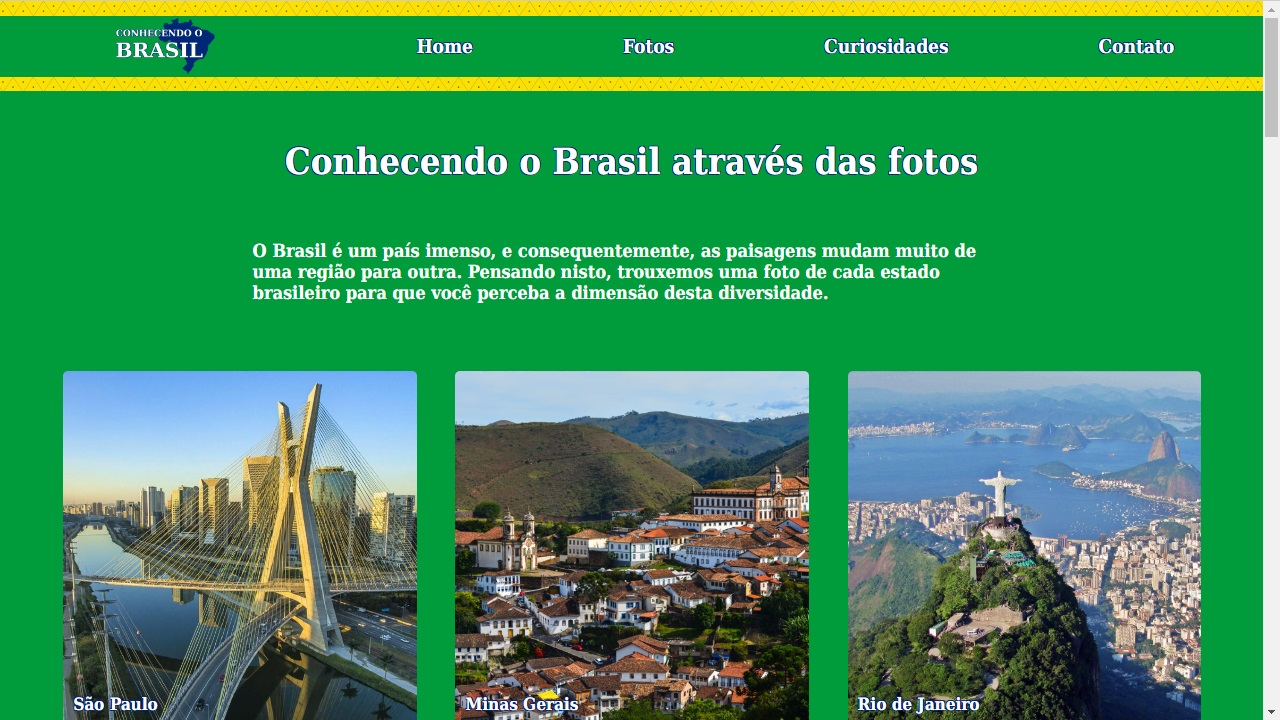
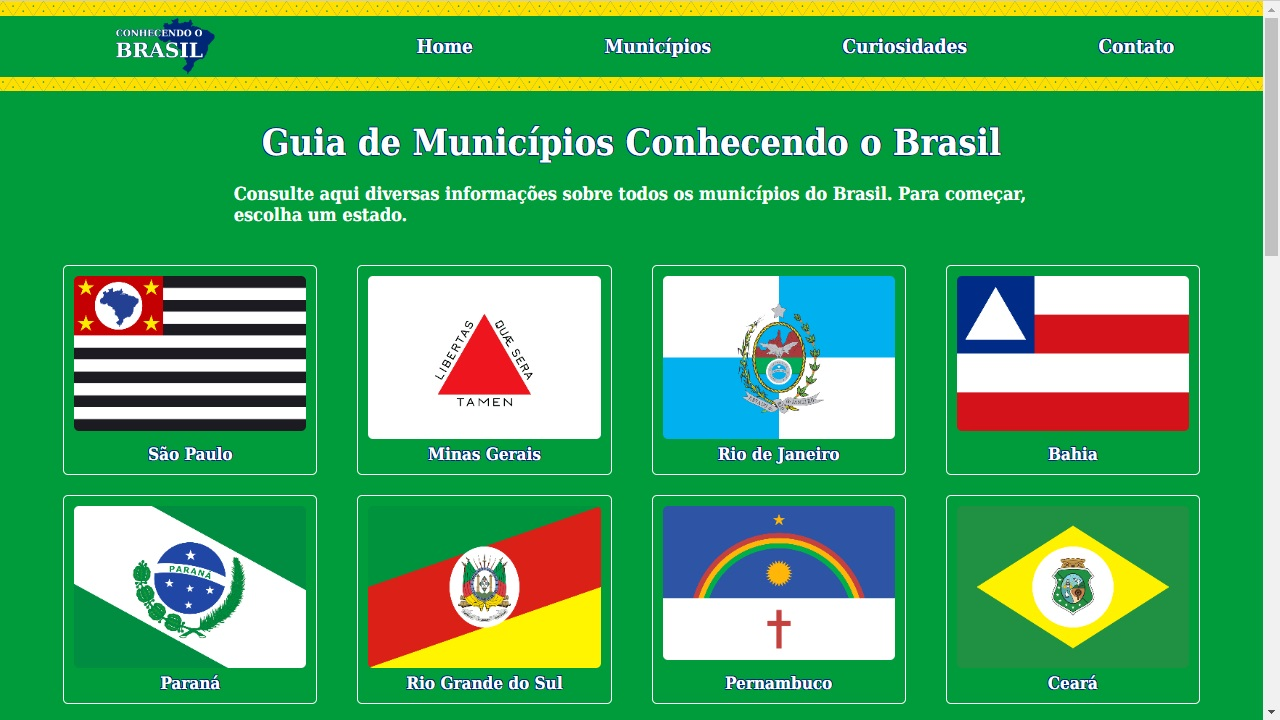
Conhecendo o Brasil project updates

diff --git a/projectdata.js b/projectdata.js
@@ -231,25 +231,27 @@ const siteConhecendoOBrasil = {
         './conhecendoobrasil/CoBimage.jpg',
         './conhecendoobrasil/CoBvideo.jpg',
         './conhecendoobrasil/CoBphoto.jpg',
+        './conhecendoobrasil/CoBstate.jpg',
+        './conhecendoobrasil/CoBmun.jpg',
         './conhecendoobrasil/CoBcuriosity.jpg',
         './conhecendoobrasil/CoBcontact.jpg'
     ],
     links: [
         {
-            href: 'https://reinaldo-alves.github.io/site-CoB/',
+            href: 'https://conhecendoobrasil.vercel.app/',
             class: 'fa-solid fa-earth-americas',
             span: 'Website'
         },
         {
-            href: 'https://github.com/reinaldo-alves/site-CoB',
+            href: 'https://github.com/reinaldo-alves/app-CoB',
             class: 'fa-brands fa-github',
             span: 'GitHub'
         },
     ],
     technologies: [
         {
-            alt: 'HTML5',
-            src: 'https://cdn.jsdelivr.net/gh/devicons/devicon/icons/html5/html5-original.svg',
+            alt: 'React',
+            src: 'https://cdn.jsdelivr.net/gh/devicons/devicon/icons/react/react-original.svg',
             style: ''
         },
         {
@@ -258,8 +260,8 @@ const siteConhecendoOBrasil = {
             style: ''
         },
     ],
-    text: 'Este é um website que apresenta o canal do Youtube Conhecendo o Brasil, um canal de curiosidades. A página mostra imagens de todos os estados brasileiros, tem uma seção de curiosidades e também links para as redes onde são postados os conteúdos principais. O site Conhecendo o Brasil foi completamente desenvolvido com HTML e CSS.',
-    textEN: 'This is a website that presents the Youtube channel Conhecendo o Brasil, a channel of curiosities about Brazil. The page shows images of all Brazilian states, has a curiosities section and also links to the networks where the main contents are posted. The Conhecendo o Brasil website was completely developed with HTML and CSS.'
+    text: 'Este é um website que apresenta o canal do Youtube Conhecendo o Brasil, um canal de curiosidades. Na página inicial, a aplipação consome a API do Youtube para mostrar informações sobre um vídeo selecionado do canal, enquanto que na página Municípios há um guia que mostra dados de todos os municípios brasileiros, obtidos a partir da API do IBGE. O website também tem uma seção de curiosidades e links para as redes onde são postados os conteúdos principais. O site Conhecendo o Brasil foi desenvolvido com o framework React e estilizado com CSS.',
+    textEN: 'This is a website that presents the Youtube channel Conhecendo o Brasil (Getting to Know Brazil), a channel of curiosities. On the homepage, the application consumes the Youtube API to show information about a selected video from the channel, while on the Municípios page there is a guide that shows data from all Brazilian municipalities, obtained from the IBGE API. The website also has a fun facts section and links to the networks where the main contents are posted. The website Conhecendo o Brasil was developed with the React framework and styled with CSS.'
 }
 
 const reproducaoFacebook = {
@@ -297,4 +299,4 @@ const reproducaoFacebook = {
     textEN: "Website that reproduces the interface of Facebook's login screen and homepage, with a system that allows navigation between them through a button. This reproduction of the Facebook interface was completely developed with HTML and CSS."
 }
 
-export const projectData = [reproducaoFacebook, siteConhecendoOBrasil, calculadoraIMC, reinaldoAlvesPortfolio, starWarsEncyclopedia, youtubeClone, whatsAppWebClone];
+export const projectData = [reproducaoFacebook, calculadoraIMC, reinaldoAlvesPortfolio, starWarsEncyclopedia, siteConhecendoOBrasil, youtubeClone, whatsAppWebClone];

diff --git a/index.html b/index.html
@@ -164,20 +164,20 @@
                         <image class="project-image" src="./YTimage.jpg" />
                     </div>
                     <div class="project-card" id="project4">
+                        <span class="project-title">Site Conhecendo o Brasil</span>
+                        <image class="project-image" src="./conhecendoobrasil/CoBimage.jpg" />
+                    </div>
+                    <div class="project-card" id="project3">
                         <span class="project-title">Star Wars Encyclopedia</span>
                         <image class="project-image" src="./starwarsencyclopedia/homestars.jpg" />
                     </div>
-                    <div class="project-card" id="project3">
+                    <div class="project-card" id="project2">
                         <span class="project-title">Portfolio Reinaldo Alves</span>
                         <image class="project-image" src="./portfolioreinaldoalves/home.jpg" />
                     </div>
-                    <div class="project-card" id="project2">
+                    <div class="project-card" id="project1">
                         <span class="project-title">Calculadora IMC</span>
                         <image class="project-image" src="./imccalc.jpg" />
-                    </div>
-                    <div class="project-card" id="project1">
-                        <span class="project-title">Site Conhecendo o Brasil</span>
-                        <image class="project-image" src="./conhecendoobrasil/CoBimage.jpg" />
                     </div>
                     <div class="project-card" id="project0">
                         <span class="project-title">Reprodução da página inicial do Facebook</span>

diff --git a/english.html b/english.html
@@ -164,20 +164,20 @@
                         <image class="project-image" src="./YTimage.jpg" />
                     </div>
                     <div class="project-card" id="project4">
+                        <span class="project-title">Conhecendo o Brasil Website</span>
+                        <image class="project-image" src="./conhecendoobrasil/CoBimage.jpg" />
+                    </div>
+                    <div class="project-card" id="project3">
                         <span class="project-title">Star Wars Encyclopedia</span>
                         <image class="project-image" src="./starwarsencyclopedia/homestars.jpg" />
                     </div>
-                    <div class="project-card" id="project3">
+                    <div class="project-card" id="project2">
                         <span class="project-title">Reinaldo Alves' Portfolio</span>
                         <image class="project-image" src="./portfolioreinaldoalves/home.jpg" />
                     </div>
-                    <div class="project-card" id="project2">
+                    <div class="project-card" id="project1">
                         <span class="project-title">BMI Calculator</span>
                         <image class="project-image" src="./imccalc.jpg" />
-                    </div>
-                    <div class="project-card" id="project1">
-                        <span class="project-title">Conhecendo o Brasil Website</span>
-                        <image class="project-image" src="./conhecendoobrasil/CoBimage.jpg" />
                     </div>
                     <div class="project-card" id="project0">
                         <span class="project-title">Facebook Homepage Reproduction</span>

diff --git a/styles.css b/styles.css
@@ -1034,6 +1034,11 @@ footer p {
 }
 
 @media (max-width: 786px) {
+    html, body {
+        scroll-snap-type: none;
+        scroll-snap-stop: none;
+    }
+    
     .profile-content {
         width: 100%;
         min-width: 320px;
